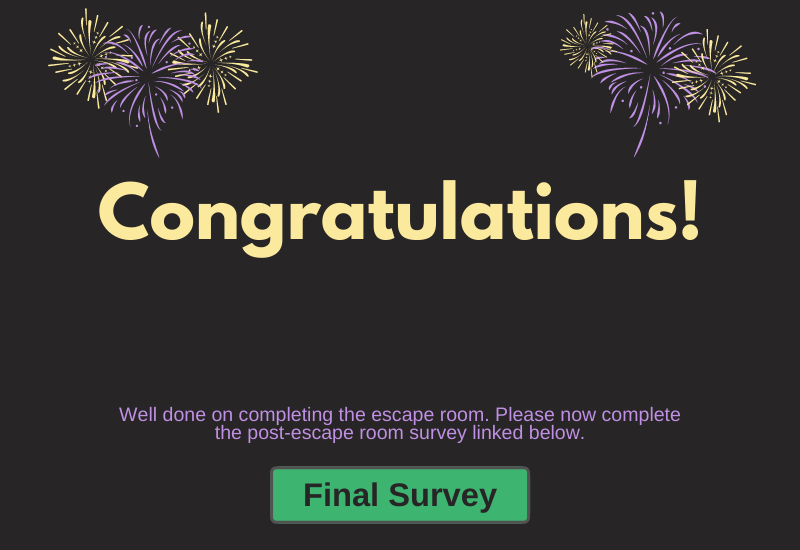
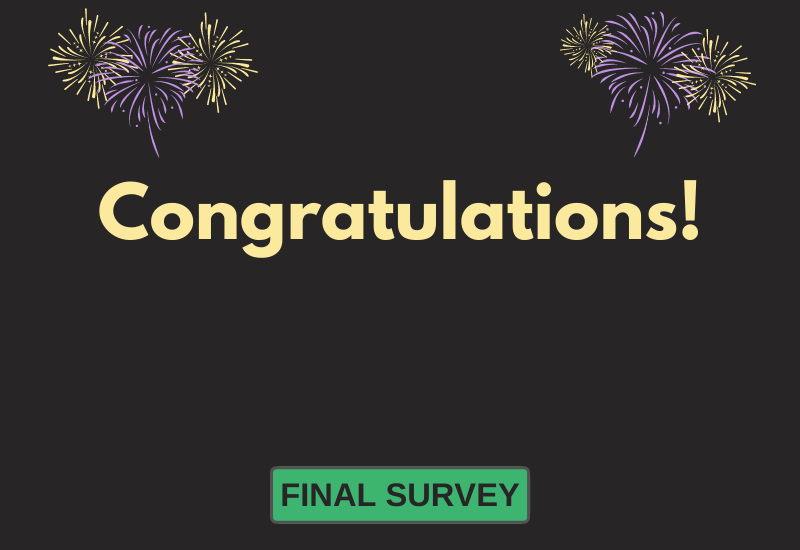
Changed end screen text

Changed region(s): [[0.1562, 0.7418, 0.8438, 0.8036], [0.3438, 0.8655, 0.6562, 0.9273]]

diff --git a/EscapeRoom/src/app/consent-form/consent-form.component.html b/EscapeRoom/src/app/consent-form/consent-form.component.html
@@ -1,6 +1,6 @@
 <div class="container" id='container' #container>
     <div class="video"></div>
-    <div class="titletext" style = 'font-family: Arial; color: #c090e4;'>Please read the linked information sheet and complete the form below before participating in this study.</div>
+    <div class="titletext" style = 'font-family: Arial; color: #c090e4;'>Please complete the form below before participating in this study.</div>
     <div class="form-container" style="font-family: Arial;">
         <div><br></div>
         <div style="text-indent: 30px; font-size: 35px; text-align: center;"><b>Consent Form</b><br></div>
@@ -36,6 +36,7 @@
             </td>
         </ul>
     </div>
-    <button class="informationbutton" (click)="informationClick()">Information Sheet</button>
-    <button class="formsubmitbutton" (click)="submitClick()">Submit</button> 
+<!--    <button class="informationbutton" (click)="informationClick()">Information Sheet</button>
+    <button class="formsubmitbutton" (click)="submitClick()">Submit</button>  -->
+    <button class="formsubmitbutton" (click)="submitClick()">SUBMIT</button>
 </div>

diff --git a/EscapeRoom/src/app/titlescreen/titlescreen.component.ts b/EscapeRoom/src/app/titlescreen/titlescreen.component.ts
@@ -18,15 +18,13 @@ export class TitlescreenComponent implements OnInit {
 
   ngOnInit(): void {}
 
-  // tslint:disable-next-line:typedef
-  startButton() {
+  startButton(): void {
     const hideTimerButton = document.getElementById('hideTimer') as HTMLInputElement;
-
     // this.router.navigateByUrl('/consent_form');
     this.router.navigateByUrl('/info-screen');
 
-    this.lockedRoomsService.roomLocked = [true, true, true, true, true, true, true, true];
-    // this.lockedRoomsService.roomLocked = [false, false, false, false, false, false, false, false];
+    // this.lockedRoomsService.roomLocked = [true, true, true, true, true, true, true, true];
+    this.lockedRoomsService.roomLocked = [false, false, false, false, false, false, false, false];
     // this.lockedRoomsService.roomLocked = [false, false, false, false, false, true, true, true];
     this.timersService.hideTimer = !(hideTimerButton.checked);
 

diff --git a/EscapeRoom/src/app/gameover-screen/gameover-screen.component.html b/EscapeRoom/src/app/gameover-screen/gameover-screen.component.html
@@ -3,5 +3,6 @@
     <div class="click-zone survey" (click)="onSurveyClick()"></div>
     <div class="idtextbox" style="font-family: Arial; color:white">Anonymous ID Code: {{anonymousCode}}</div>
     <div class="hidebutton" *ngIf="!consentGiven"></div>
+    <div class="surveytext" *ngIf="consentGiven" style="font-family: Arial; color:#c090e4">Thank you for participating in the escape room! Please now complete the post-escape room survey linked below. Regardless of your performance in the escape room, your response to the survey is extremely valuable to this study, and is much appreciated.</div>
 </div>
 

diff --git a/EscapeRoom/src/app/congratulationsscreen/congratulationsscreen.component.html b/EscapeRoom/src/app/congratulationsscreen/congratulationsscreen.component.html
@@ -4,4 +4,5 @@
     <div class="finaltime" style="font-family: Arial; color:white">Time: {{timeString}}</div>
     <div class="idtextbox" style="font-family: Arial; color:white">Anonymous ID Code: {{anonymousCode}}</div>
     <div class="hidebutton" *ngIf="!consentGiven"></div>
+    <div class="surveytext" *ngIf="consentGiven" style="font-family: Arial; color:#c090e4">Well done on completing the escape room! Please now complete the post-escape room survey linked below. All responses to the survey are extremely useful for this study, and are much appreciated.</div>
 </div>

diff --git a/EscapeRoom/src/app/consent-form/consent-form.component.css b/EscapeRoom/src/app/consent-form/consent-form.component.css
@@ -30,7 +30,7 @@
 .formsubmitbutton {
     position: absolute;
     left: 275px;
-    top: 498px;
+    top: 488px;
     width: 250px;
     height: 45px;
     font-size: 18px;
@@ -51,7 +51,7 @@
     border: solid black 2px;
     left: 30px;
     width: 740px;
-    top: 65px;
+    top: 45px;
     /* height: 300px; */
     height: 425px;
     z-index: 15;
@@ -60,11 +60,12 @@
 
 .titletext {
     position: absolute;
-    left: 40px;
+    left: 50px;
     width: 700px;
     top: 20px;
     height: 50px;
     z-index: 15;
+    text-align: center;
 }
 
 input.largerCheckbox { 

diff --git a/EscapeRoom/src/app/congratulationsscreen/congratulationsscreen.component.css b/EscapeRoom/src/app/congratulationsscreen/congratulationsscreen.component.css
@@ -53,8 +53,19 @@
     position: absolute;
     background: #292525;
     left: 20px;
-    top: 400px;
     width: 760px;
-    height: 130px;
+    height: 80px;
+    top: 450px;
     z-index: 21;
+}
+
+.surveytext {
+    position: absolute;
+    width: 600px;
+    left: 100px;
+    top: 390px;
+    height: 100px;
+    text-align: center;
+    z-index: 11;
+    font-size: 17px;
 }

diff --git a/EscapeRoom/src/app/gameover-screen/gameover-screen.component.css b/EscapeRoom/src/app/gameover-screen/gameover-screen.component.css
@@ -47,3 +47,14 @@
     height: 130px;
     z-index: 21;
 }
+
+.surveytext {
+    position: absolute;
+    width: 660px;
+    left: 70px;
+    top: 380px;
+    height: 100px;
+    text-align: center;
+    z-index: 11;
+    font-size: 17px;
+}
